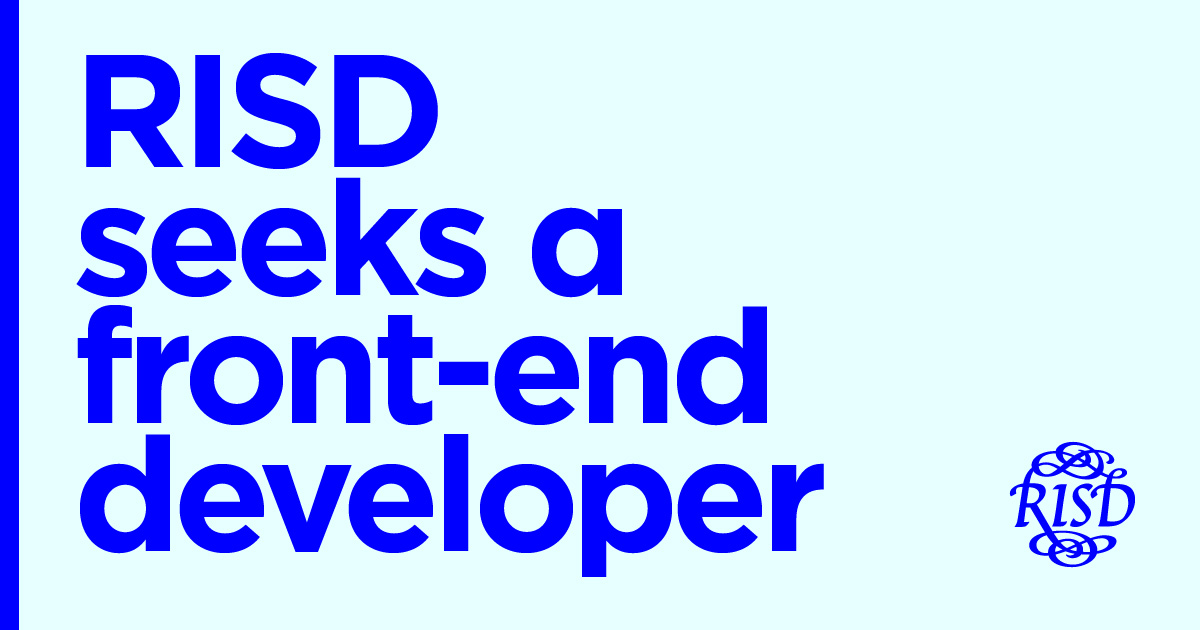
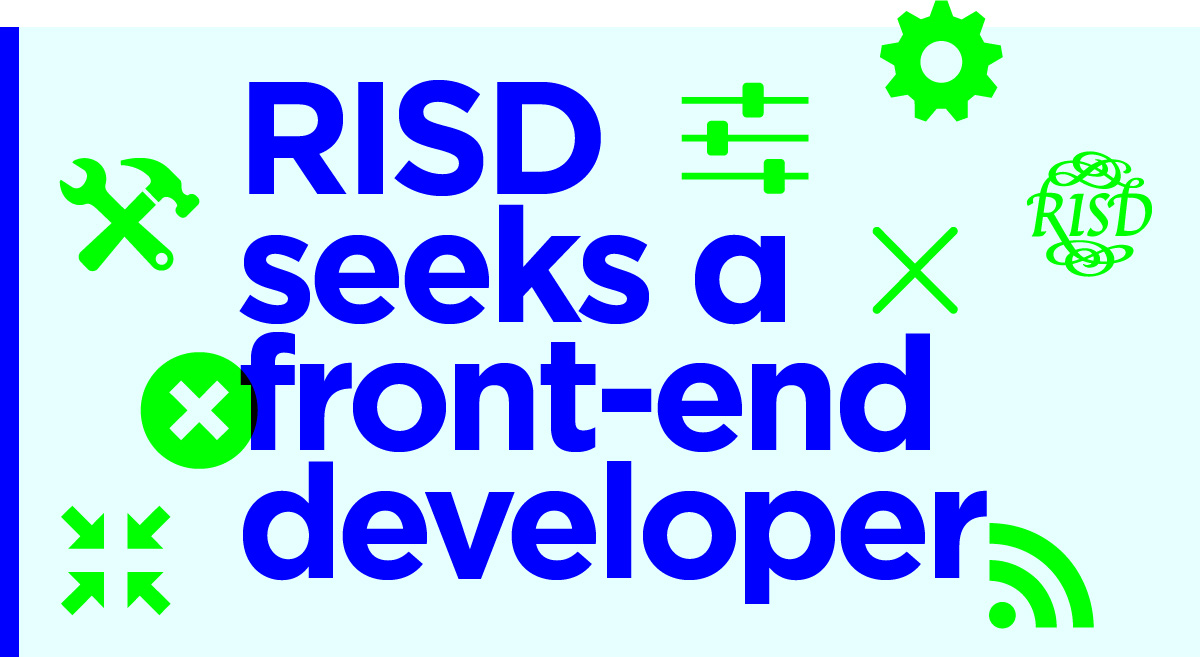
animations

diff --git a/_sass/modules/header.scss b/_sass/modules/header.scss
@@ -121,7 +121,7 @@ li{
 		content:"→ ";
 		@extend %color-shift
 	}
-	
+
 	a{
 		margin-left:1em;
 	}
@@ -244,5 +244,128 @@ li{
 		&:before{
 			content:"";
 		}
+	}
+}
+
+
+.icons{
+	position:absolute;
+	z-index:10;
+	top:0;
+	left:0;
+	width:100%;
+	mix-blend-mode:multiply;
+
+	svg{
+
+		path,
+		polygon{
+			@extend %fill-shift-reverse;
+		}
+
+		mix-blend-mode:multiply;
+		position:absolute;
+		max-width:2rem;
+		@include respond-above(small){
+			max-width:5rem;
+		};
+		@include respond-above(medium){
+			max-width:7rem;		
+		};
+	}
+	
+	#gear{
+		left: 50vw;
+		top:42vh;
+		animation:spin 1.5s ease-in-out reverse infinite;
+
+	}
+	
+	#rss{
+		right:10vw;
+		top:56vh;
+		#small-arc{
+			animation: appearBlunt 1s ease-in-out 0.4s infinite,
+			  		   fillShift 20s ease-in-out alternate-reverse infinite;
+			// transform:rotate(20deg);
+		}
+
+		#large-arc{
+			animation: appearBlunt 1s ease-in-out infinite,
+					   fillShift 20s ease-in-out alternate-reverse infinite;
+		}
+	}
+
+	#sliders{
+		right:40vw;
+		top:10vh;
+		#slider-top{
+			animation:shift 3s ease-in-out alternate infinite,
+			          fillShift 20s ease-in-out alternate-reverse infinite;
+		}
+		#slider-middle{
+			animation:shift 4s ease-in-out alternate-reverse infinite,
+			          fillShift 20s ease-in-out alternate-reverse infinite;
+		}
+
+		#slider-bottom{
+			animation:shift 1s ease-in-out alternate-reverse infinite,
+			          fillShift 20s ease-in-out alternate-reverse infinite;
+		}
+
+		
+	}
+
+	#x-button{
+		top:20vh;
+		right:5em;
+		animation:spin 1.5s ease-in-out infinite;
+	}
+
+	#tools{
+		left:20vw;
+		top:30vh;
+		#hammer{
+			transform-origin:50% 50%;
+			// animation:wiggle 3s ease-in-out alternate infinite;
+		}
+		#wrench{
+			transform-origin: 50% 50%;
+			// animation:wiggle 3s ease-in-out alternate-reverse infinite,
+				      // fillShift 20s ease-in-out alternate-reverse infinite;
+		}
+	}
+	
+	#risd-seal{
+		right:-2vw;
+		top:-2em;
+	}
+
+	#arrows{
+		left:10vw;
+		top:60vh;
+		polygon{
+			transform-origin:50% 50%;
+		}
+
+		.top.left{
+			animation:rotate 1.5s ease-in-out infinite,
+			          fillShift 20s ease-in-out alternate-reverse infinite;
+
+		}
+		.bottom.left{
+			animation:rotate 1.5s ease-in-out reverse infinite,
+					  fillShift 20s ease-in-out alternate-reverse infinite;
+		}
+
+		.top.right{
+			animation:rotate 1.5s ease-in-out infinite,
+					  fillShift 20s ease-in-out alternate-reverse infinite;
+		}
+		.bottom.right{
+			animation:rotate 1.5s ease-in-out reverse infinite,
+					  fillShift 20s ease-in-out alternate-reverse infinite;
+		}
+
 	}
 }

diff --git a/_sass/modules/animations.scss b/_sass/modules/animations.scss
@@ -56,6 +56,87 @@
 	}
 }
 
+@keyframes spin{
+	0%{
+		transform:rotate(0deg);
+	}
+	25%{
+		transform:rotate(90deg);
+	}
+	50%{
+		transform:rotate(90deg);
+	}
+
+	75%{
+		transform:rotate(180deg);
+	}
+	85%{
+		transform:rotate(270deg);
+	}
+	100%{
+		transform:rotate(359deg);
+	}
+
+}
+
+@keyframes shift{
+	0%{
+		transform:translateX(0%);
+	}25%{
+		transform:translateX(-110%);
+	}50%{
+		transform:translateX(-110%);
+	}75%{
+		transform:translateX(5%);
+	}80%{
+		transform: translateX(5%);
+	}100%{
+		transform:translateX(0%);
+	}
+}
+
+@keyframes rotate{
+	0%{
+		transform:rotate(0deg);
+	}10%{
+		transform:rotate(0deg);
+	}20%{
+		transform:rotate(180deg)
+	}
+	80%{
+		transform:rotate(180deg);
+	}90%{
+		transform:rotate(0deg);
+	}100%{
+		transform:rotate(0deg);
+	}
+}
+
+@keyframes appearBlunt{
+	0%{
+		opacity:0;
+
+	}49%{
+		opacity:0;
+	}50%{
+		opacity:1;
+	}100%{
+		opacity:1;
+	}
+}
+
+@keyframes wiggle{
+	0%{
+		transform:rotate(0deg);
+	}10%{
+		transform:rotate(6deg);
+	}90%{
+		transform:rotate(6deg);
+	}100%{
+		transform:rotate(0deg);
+	}
+}
+
 %color-shift{
 	animation: colorShift 20s ease-in-out alternate infinite;
 }
@@ -71,6 +152,10 @@
 
 %fill-shift{
 	animation: fillShift 20s ease-in-out alternate infinite;
+}
+
+%fill-shift-reverse{
+	animation: fillShift 20s ease-in-out alternate-reverse infinite;
 }
 
 %body-shift{

diff --git a/_includes/head.html b/_includes/head.html
@@ -85,3 +85,5 @@
   {% include google-analytics.html %}
   {% endif %}
 </head>
+
+

diff --git a/index.md b/index.md
@@ -9,6 +9,15 @@ layout: home
 <header class="intro">
 	<h1><span class="word word-one">RISD</span> <br> <span class="word word-two">seeks</span> <span class="word word-three">a</span> <br> <span class="word word-four">front-end</span> <br><span class="word word-five">developer</span></h1>
 	
+	<div class="icons">
+		{% include icons/x-button.svg  %}
+		{% include icons/tools.svg  %}
+		{% include icons/rss.svg  %}
+		{% include icons/sliders.svg  %}
+		{% include icons/arrows.svg  %}
+		{% include icons/gear.svg  %}
+		{% include risd-seal.svg  %}
+	</div>
 	{% comment %}<div class="seal">
 		{% include risd-seal.svg %}
 	</div>{% endcomment %}
